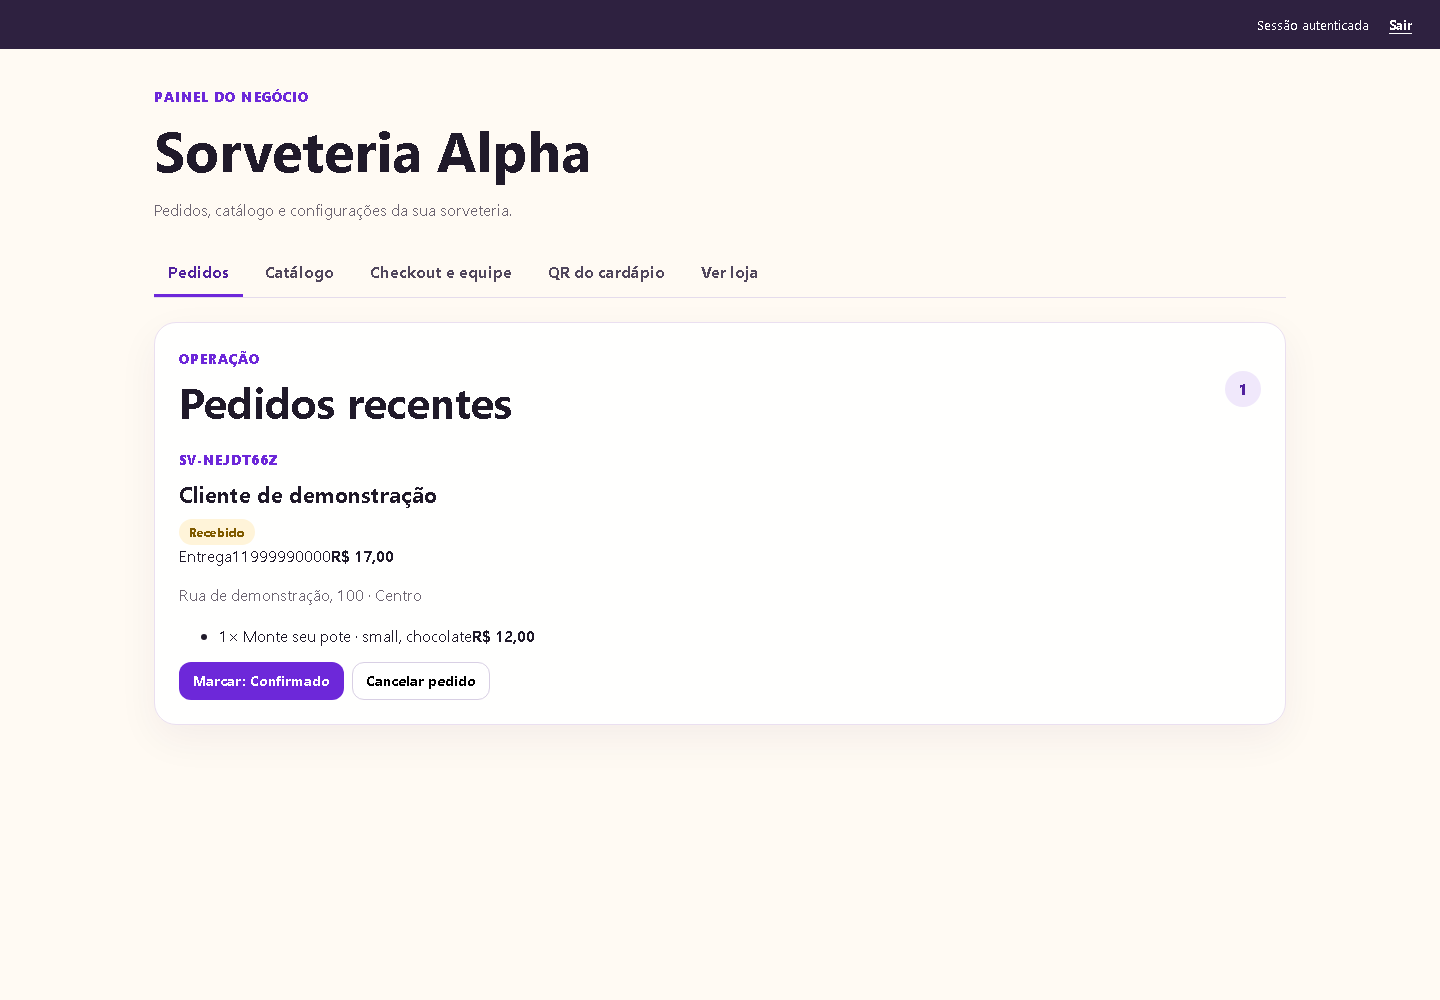
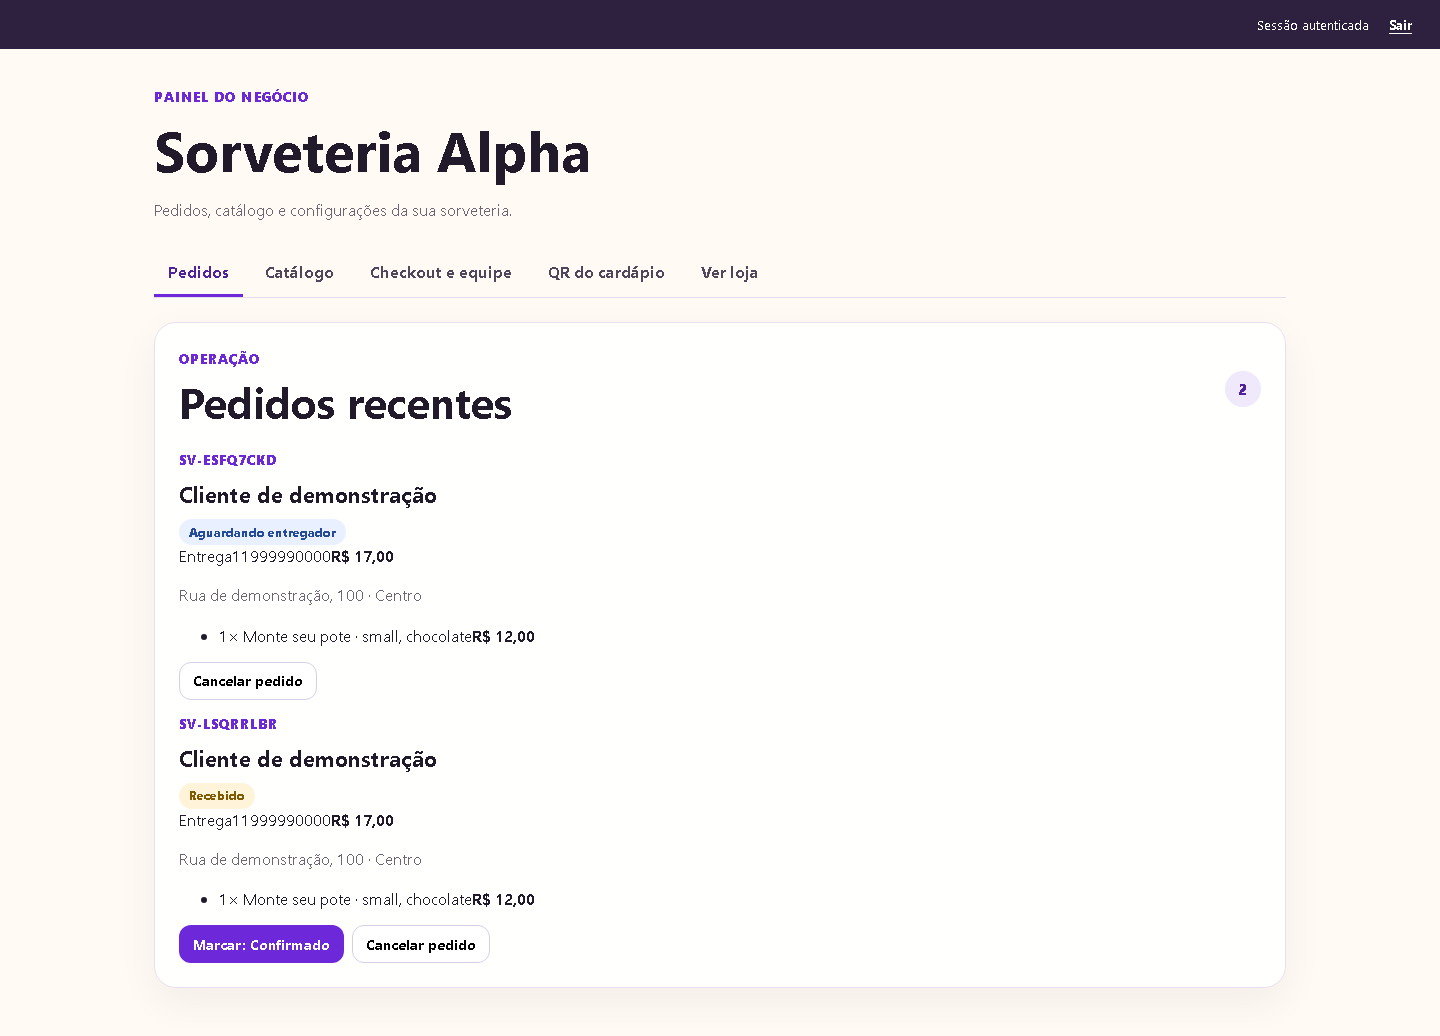
chore: finalize Sorveteria v06 core

diff --git a/src/pages/TenantAdminPage.tsx b/src/pages/TenantAdminPage.tsx
@@ -250,7 +250,10 @@ function OrderManager({ tenantId, canResetDeliveryCode }: { tenantId: string; ca
     const reason = status === "cancelled" ? window.prompt("Motivo do cancelamento:")?.trim() : undefined;
     if (status === "cancelled" && !reason) return;
     setBusyId(order.id); setError(null);
-    try { await changeOrderStatus(tenantId, order.id, status, reason); }
+    try {
+      await changeOrderStatus(tenantId, order.id, status, reason);
+      setOrders((current) => current.map((row) => row.id === order.id ? { ...row, status } : row));
+    }
     catch (changeError) { setError(changeError instanceof Error ? changeError.message : "Não foi possível atualizar o pedido."); }
     finally { setBusyId(null); }
   }
@@ -259,7 +262,25 @@ function OrderManager({ tenantId, canResetDeliveryCode }: { tenantId: string; ca
     const driverId = selectedDrivers[order.id];
     if (!driverId) { setError("Escolha um entregador ativo."); return; }
     setBusyId(order.id); setError(null);
-    try { await assignDelivery(tenantId, order.id, driverId); }
+    try {
+      await assignDelivery(tenantId, order.id, driverId);
+      setOrders((current) => current.map((row) => row.id === order.id ? { ...row, status: "awaiting_driver" } : row));
+      setDeliveries((current) => {
+        const existing = current.find((delivery) => delivery.orderId === order.id);
+        const nextDelivery: DriverDelivery = {
+          id: order.id,
+          tenantId,
+          orderId: order.id,
+          driverId,
+          status: "assigned",
+          failedAttempts: existing?.failedAttempts ?? 0,
+          confirmationFailures: existing?.confirmationFailures ?? 0,
+        };
+        return existing
+          ? current.map((delivery) => delivery.orderId === order.id ? { ...delivery, ...nextDelivery } : delivery)
+          : [nextDelivery, ...current];
+      });
+    }
     catch (assignError) { setError(assignError instanceof Error ? assignError.message : "Não foi possível atribuir a entrega."); }
     finally { setBusyId(null); }
   }

diff --git a/vitest.integration.config.ts b/vitest.integration.config.ts
@@ -5,7 +5,7 @@ export default mergeConfig(viteConfig, defineConfig({
   test: {
     include: ["tests/integration/**/*.test.ts"],
     exclude: ["**/node_modules/**", "**/dist/**", "tests/rules/**"],
-    testTimeout: 60_000,
-    hookTimeout: 60_000,
+    testTimeout: 120_000,
+    hookTimeout: 120_000,
   },
 }));

diff --git a/docs/versions/v06-multitenant-core-ready/STATUS.md b/docs/versions/v06-multitenant-core-ready/STATUS.md
@@ -20,16 +20,16 @@ LEADS_CONFIRMED=0
 | Build | `npm run build` | PASS |
 | Firestore e Storage Rules | `npm run test:rules` — 11 testes, incluindo staff, membership ausente e cross-user | PASS |
 | Integração | `npm run test:integration` — 2 jornadas, incluindo Platform Owner e pedido/entrega | PASS |
-| QA manual no navegador | `npm run qa:screenshots` — customer, owner, driver, Platform Owner, bloqueio cross-tenant e troca de contexto Alpha/Beta | PASS; 21 screenshots reais |
+| QA no navegador | Jornada completa customer/owner/driver/Platform Owner; verificações direcionadas para negação cross-tenant do Driver e atualização de status pelo Owner | Jornada completa PASS com 21 capturas; verificações direcionadas PASS; 22 arquivos de screenshot catalogados |
 | Diagramas | `npm run docs:diagrams` — arquitetura e fluxo pedido/entrega | PASS; fontes Mermaid e SVGs |
 | Documentação | `npm run docs:check` — 14 arquivos Markdown, links e assets | PASS |
 | Leads | `npm run docs:leads` | PASS; zero leads confirmados |
 | Preços e limites | Baseline v05 e landing comparados | PASS, sem alteração |
 | Billing/deploy | Configuração local e fluxo do produto | NÃO EXECUTADOS; fora do escopo e sem aprovação |
 
-As suítes e a QA visual foram executadas nesta rodada. As 21 capturas estão catalogadas em [SCREENS.md](SCREENS.md), incluindo entrada do Platform Owner em Alpha, retorno à plataforma, troca para Beta, suspensão e reativação. Checkout, storefront mobile, os dois contextos do Platform Owner, entrega concluída e a negação entre tenants foram inspecionados visualmente. `docs/CURRENT.md` aponta para v06 e preserva v05 como fonte comercial.
+As suítes e a QA visual foram executadas nesta rodada. Uma jornada completa passou e salvou 21 capturas; verificações direcionadas também passaram para o bloqueio do Driver Alpha ao tentar abrir entregas Beta e para a atualização de status pelo Owner. Os 22 arquivos estão catalogados em [SCREENS.md](SCREENS.md). Checkout, storefront mobile, os dois contextos do Platform Owner, entrega concluída e as duas negações entre tenants foram inspecionados visualmente. Repetições posteriores da jornada completa tiveram timeouts intermitentes no tracking do navegador/emulador; por isso, elas não são contabilizadas como uma segunda execução completa aprovada. `docs/CURRENT.md` aponta para v06 e preserva v05 como fonte comercial.
 
-Avisos observados sem falha nos gates: o emulator executa Node 24 do host embora `functions/package.json` solicite Node 20, e a CLI sinaliza uma versão de `firebase-functions` desatualizada. O build passa; o Rollup remove comentários `@__PURE__` do Zod cuja posição não consegue interpretar. O seed local também emitiu `MetadataLookupWarning` de acesso à metadata externa, mas preparou com sucesso as 9 contas e os 2 tenants no Emulator Suite. Nenhuma implantação, Firebase de produção ou serviço pago foi acionado.
+Avisos observados sem falha nos gates: o emulator executa Node 24 do host embora `functions/package.json` solicite Node 20, e a CLI sinaliza uma versão de `firebase-functions` desatualizada. A descoberta das Functions usa 180 s e cada teste de integração 120 s para acomodar a inicialização lenta observada no host. O build passa; o Rollup remove comentários `@__PURE__` do Zod cuja posição não consegue interpretar. O seed local também emitiu `MetadataLookupWarning` de acesso à metadata externa, mas preparou com sucesso as 9 contas e os 2 tenants no Emulator Suite. Nenhuma implantação, Firebase de produção ou serviço pago foi acionado.
 
 ## Readiness A–H
 

diff --git a/docs/versions/v06-multitenant-core-ready/SCREENS.md b/docs/versions/v06-multitenant-core-ready/SCREENS.md
@@ -21,6 +21,7 @@ As evidências abaixo são capturas reais da aplicação em execução local, us
 | Driver: entrega atribuída | [driver-entrega-atribuida.png](screenshots/driver-entrega-atribuida.png) |
 | Driver: chegada e código | [driver-chegada.png](screenshots/driver-chegada.png) |
 | Driver: entrega concluída | [driver-entrega-concluida.png](screenshots/driver-entrega-concluida.png) |
+| Driver Alpha tentando abrir entregas Beta | [driver-alpha-sem-acesso-a-beta.png](screenshots/driver-alpha-sem-acesso-a-beta.png) |
 | Platform Owner: tenants ativos | [platform-owner.png](screenshots/platform-owner.png) |
 | Platform Owner: contexto Alpha e retorno à plataforma | [platform-owner-contexto-alpha.png](screenshots/platform-owner-contexto-alpha.png) |
 | Platform Owner: contexto Beta e troca de contexto | [platform-owner-contexto-beta.png](screenshots/platform-owner-contexto-beta.png) |
@@ -30,6 +31,6 @@ As evidências abaixo são capturas reais da aplicação em execução local, us
 
 ## QA visual
 
-Em 08/10/2026, a jornada de navegador percorreu cliente → pedido → tracking; Owner Alpha → status e catálogo; Driver Alpha → saída, chegada e confirmação; Owner Beta → bloqueio ao painel Alpha; e Platform Owner → entrada em Alpha, retorno à plataforma, troca para Beta, suspensão e reativação no Emulator Suite. O script `npm run qa:screenshots` salvou as capturas acima após percorrer essas telas.
+Em 09/10/2026, a jornada completa no Emulator Suite percorreu cliente → pedido → tracking; Owner Alpha → status e catálogo; Driver Alpha → saída, chegada e confirmação; Owner Beta → bloqueio ao painel Alpha; e Platform Owner → entrada em Alpha, retorno à plataforma, troca para Beta, suspensão e reativação. Essa execução salvou 21 capturas. Em verificações direcionadas posteriores, a conta Driver Alpha tentou abrir as entregas Beta e recebeu a negação de acesso; o fluxo de status do Owner também foi revalidado após ajuste da atualização visual. Os arquivos resultantes totalizam 22 capturas catalogadas. Repetições posteriores da jornada completa tiveram timeout intermitente no tracking e não são contabilizadas como execuções completas aprovadas.
 
 As capturas foram inspecionadas visualmente; checkout, storefront mobile, Platform Owner e a negação entre tenants foram verificados em detalhe. Nenhuma imagem gerada foi usada como prova de funcionalidade.
